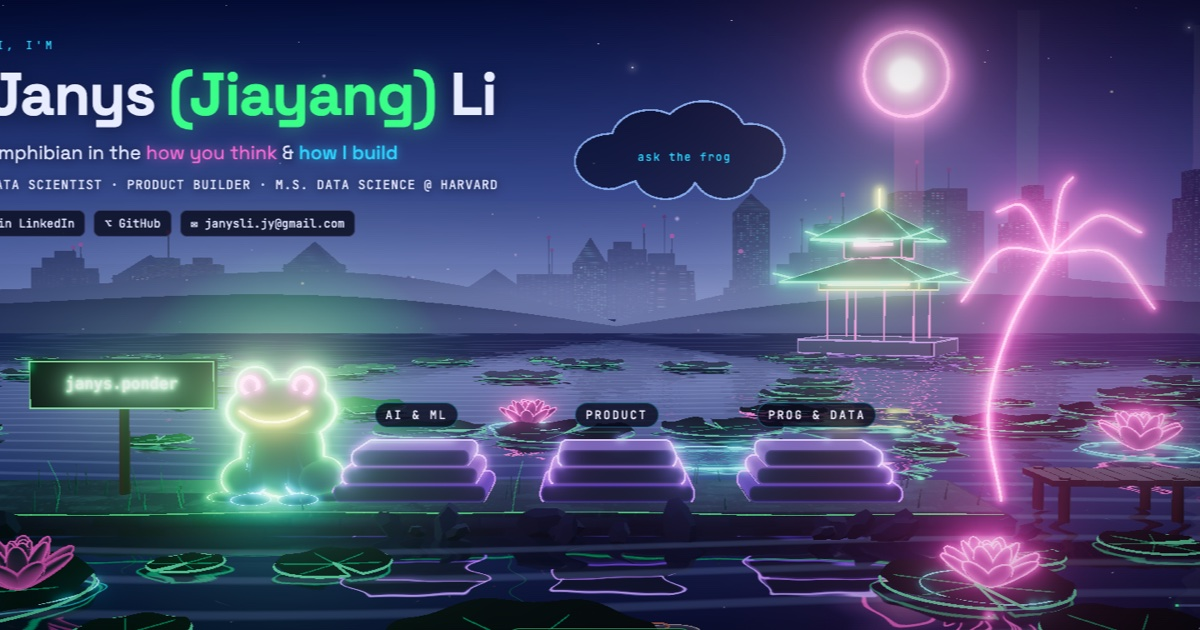
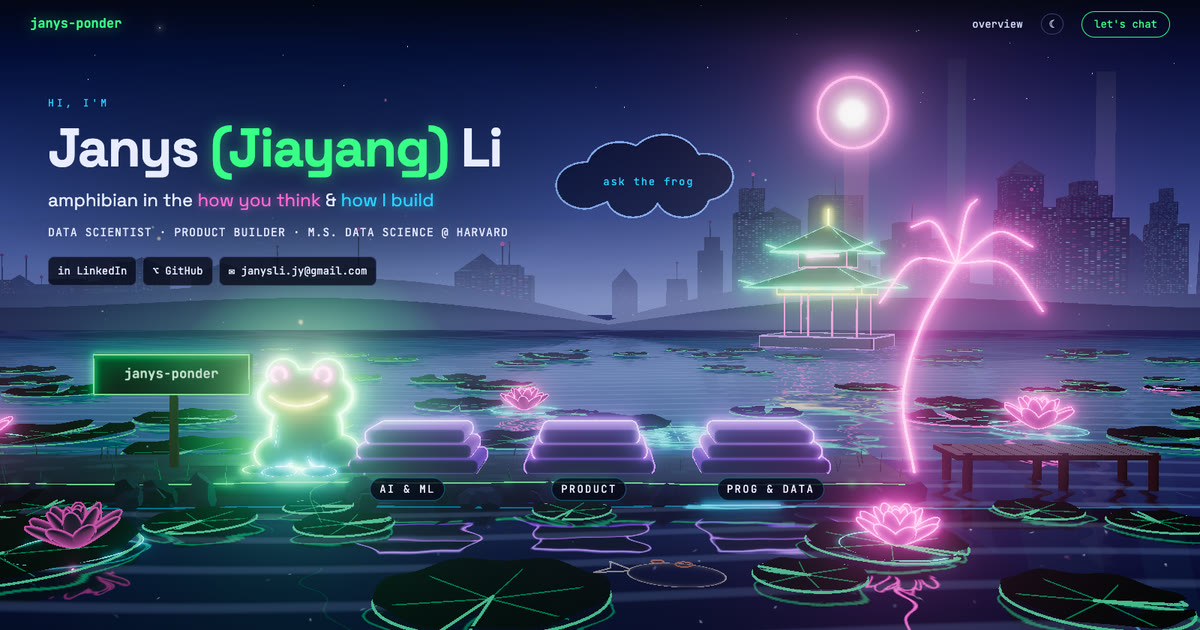
Rename janys.ponder -> janys-ponder everywhere
- Site: sign lettering, nav logo, page titles, share metadata, contact email subject
- Docs, README and concept sources
- Re-rendered LinkedIn banner and share image (og.jpg) with the new name

diff --git a/design/concept/world6.js b/design/concept/world6.js
@@ -1,4 +1,4 @@
-// janys.ponder — v2 "painterly cyber-pond" homepage.
+// janys-ponder — v2 "painterly cyber-pond" homepage.
 // Painterly, lit environment (textured pads, glowing lotus, reflective water, haze, city, pagoda)
 // + neon-outlined characters (the frog) and UI objects. Refs: design/references/*.webp
 import * as THREE from 'three';
@@ -369,7 +369,7 @@ const TERR_X = [-8, -2, 4];
   const post = new THREE.Mesh(new THREE.CylinderGeometry(0.14, 0.16, 3.4, 10), wood); post.position.set(-16.8, 1.7, -0.6); scene.add(post);
   const board = new THREE.Mesh(new RoundedBoxGeometry(5.6, 1.5, 0.3, 3, 0.1), new THREE.MeshStandardMaterial({ color: '#0e1a24', roughness: 0.6 })); board.position.set(-16.8, 3.3, -0.6); scene.add(board);
   const txt = new THREE.Mesh(new THREE.PlaneGeometry(4.4, 1.1), new THREE.MeshBasicMaterial({ transparent: true, opacity: 0.8, toneMapped: false, depthWrite: false, map: canvasTex(1024, 256, (x) => {
-    x.font = '700 108px "JetBrains Mono", monospace'; x.textAlign = 'center'; x.textBaseline = 'middle'; x.shadowColor = '#39ff88'; x.shadowBlur = 26; x.fillStyle = '#7dffb0'; x.fillText('janys.ponder', 512, 128); x.shadowBlur = 0; x.globalAlpha = 0.6; x.fillStyle = '#fff'; x.fillText('janys.ponder', 512, 128); }) }));
+    x.font = '700 108px "JetBrains Mono", monospace'; x.textAlign = 'center'; x.textBaseline = 'middle'; x.shadowColor = '#39ff88'; x.shadowBlur = 26; x.fillStyle = '#7dffb0'; x.fillText('janys-ponder', 512, 128); x.shadowBlur = 0; x.globalAlpha = 0.6; x.fillStyle = '#fff'; x.fillText('janys-ponder', 512, 128); }) }));
   txt.position.set(-16.8, 3.3, -0.43); scene.add(txt); [post, board, txt].forEach(o => o.layers.set(1));
   line(scene, [[-19.55, 2.6, -0.44], [-19.55, 4.0, -0.44], [-14.05, 4.0, -0.44], [-14.05, 2.6, -0.44], [-19.55, 2.6, -0.44]], C.frog, 1.6, 0.9, 0.7).layers.set(1);
   // lantern by the sign

diff --git a/design/concept/world7.js b/design/concept/world7.js
@@ -1,4 +1,4 @@
-// janys.ponder — v2 "painterly cyber-pond" homepage.
+// janys-ponder — v2 "painterly cyber-pond" homepage.
 // Painterly, lit environment (textured pads, glowing lotus, reflective water, haze, city, pagoda)
 // + neon-outlined characters (the frog) and UI objects. Refs: design/references/*.webp
 import * as THREE from 'three';
@@ -375,7 +375,7 @@ const TERR_X = [-8, -2, 4];
   const post = new THREE.Mesh(new THREE.CylinderGeometry(0.14, 0.16, 3.4, 10), wood); post.position.set(-16.8, 1.7, -0.6); scene.add(post);
   const board = new THREE.Mesh(new RoundedBoxGeometry(5.6, 1.5, 0.3, 3, 0.1), new THREE.MeshStandardMaterial({ color: '#0e1a24', roughness: 0.6 })); board.position.set(-16.8, 3.3, -0.6); scene.add(board);
   const txt = new THREE.Mesh(new THREE.PlaneGeometry(4.4, 1.1), new THREE.MeshBasicMaterial({ transparent: true, opacity: 0.8, toneMapped: false, depthWrite: false, map: canvasTex(1024, 256, (x) => {
-    x.font = '700 108px "JetBrains Mono", monospace'; x.textAlign = 'center'; x.textBaseline = 'middle'; x.shadowColor = '#39ff88'; x.shadowBlur = 26; x.fillStyle = '#7dffb0'; x.fillText('janys.ponder', 512, 128); x.shadowBlur = 0; x.globalAlpha = 0.6; x.fillStyle = '#fff'; x.fillText('janys.ponder', 512, 128); }) }));
+    x.font = '700 108px "JetBrains Mono", monospace'; x.textAlign = 'center'; x.textBaseline = 'middle'; x.shadowColor = '#39ff88'; x.shadowBlur = 26; x.fillStyle = '#7dffb0'; x.fillText('janys-ponder', 512, 128); x.shadowBlur = 0; x.globalAlpha = 0.6; x.fillStyle = '#fff'; x.fillText('janys-ponder', 512, 128); }) }));
   txt.position.set(-16.8, 3.3, -0.43); scene.add(txt); [post, board, txt].forEach(o => o.layers.set(1));
   line(scene, [[-19.55, 2.6, -0.44], [-19.55, 4.0, -0.44], [-14.05, 4.0, -0.44], [-14.05, 2.6, -0.44], [-19.55, 2.6, -0.44]], C.frog, 1.6, 0.9, 0.7).layers.set(1);
   // lantern by the sign

diff --git a/design/concept/world5.js b/design/concept/world5.js
@@ -1,4 +1,4 @@
-// janys.ponder — v2 "painterly cyber-pond" homepage.
+// janys-ponder — v2 "painterly cyber-pond" homepage.
 // Painterly, lit environment (textured pads, glowing lotus, reflective water, haze, city, pagoda)
 // + neon-outlined characters (the frog) and UI objects. Refs: design/references/*.webp
 import * as THREE from 'three';
@@ -367,7 +367,7 @@ const TERR_X = [-8, -2, 4];
   const post = new THREE.Mesh(new THREE.CylinderGeometry(0.14, 0.16, 3.4, 10), wood); post.position.set(-16.8, 1.7, -0.6); scene.add(post);
   const board = new THREE.Mesh(new RoundedBoxGeometry(5.6, 1.5, 0.3, 3, 0.1), new THREE.MeshStandardMaterial({ color: '#0e1a24', roughness: 0.6 })); board.position.set(-16.8, 3.3, -0.6); scene.add(board);
   const txt = new THREE.Mesh(new THREE.PlaneGeometry(4.4, 1.1), new THREE.MeshBasicMaterial({ transparent: true, opacity: 0.8, toneMapped: false, depthWrite: false, map: canvasTex(1024, 256, (x) => {
-    x.font = '700 108px "JetBrains Mono", monospace'; x.textAlign = 'center'; x.textBaseline = 'middle'; x.shadowColor = '#39ff88'; x.shadowBlur = 26; x.fillStyle = '#7dffb0'; x.fillText('janys.ponder', 512, 128); x.shadowBlur = 0; x.globalAlpha = 0.6; x.fillStyle = '#fff'; x.fillText('janys.ponder', 512, 128); }) }));
+    x.font = '700 108px "JetBrains Mono", monospace'; x.textAlign = 'center'; x.textBaseline = 'middle'; x.shadowColor = '#39ff88'; x.shadowBlur = 26; x.fillStyle = '#7dffb0'; x.fillText('janys-ponder', 512, 128); x.shadowBlur = 0; x.globalAlpha = 0.6; x.fillStyle = '#fff'; x.fillText('janys-ponder', 512, 128); }) }));
   txt.position.set(-16.8, 3.3, -0.43); scene.add(txt); [post, board, txt].forEach(o => o.layers.set(1));
   line(scene, [[-19.55, 2.6, -0.44], [-19.55, 4.0, -0.44], [-14.05, 4.0, -0.44], [-14.05, 2.6, -0.44], [-19.55, 2.6, -0.44]], C.frog, 1.6, 0.9, 0.7);
   // lantern by the sign

diff --git a/design/concept/world3.js b/design/concept/world3.js
@@ -1,4 +1,4 @@
-// janys.ponder — v2 "painterly cyber-pond" homepage.
+// janys-ponder — v2 "painterly cyber-pond" homepage.
 // Painterly, lit environment (textured pads, glowing lotus, reflective water, haze, city, pagoda)
 // + neon-outlined characters (the frog) and UI objects. Refs: design/references/*.webp
 import * as THREE from 'three';
@@ -349,7 +349,7 @@ const TERR_X = [-8, -2, 4];
   const post = new THREE.Mesh(new THREE.CylinderGeometry(0.14, 0.16, 3.4, 10), wood); post.position.set(-16.8, 1.7, -0.6); scene.add(post);
   const board = new THREE.Mesh(new RoundedBoxGeometry(5.6, 1.5, 0.3, 3, 0.1), new THREE.MeshStandardMaterial({ color: '#0e1a24', roughness: 0.6 })); board.position.set(-16.8, 3.3, -0.6); scene.add(board);
   const txt = new THREE.Mesh(new THREE.PlaneGeometry(4.4, 1.1), new THREE.MeshBasicMaterial({ transparent: true, opacity: 0.55, toneMapped: false, depthWrite: false, map: canvasTex(1024, 256, (x) => {
-    x.font = '700 108px "JetBrains Mono", monospace'; x.textAlign = 'center'; x.textBaseline = 'middle'; x.shadowColor = '#39ff88'; x.shadowBlur = 26; x.fillStyle = '#7dffb0'; x.fillText('janys.ponder', 512, 128); x.shadowBlur = 0; x.globalAlpha = 0.6; x.fillStyle = '#fff'; x.fillText('janys.ponder', 512, 128); }) }));
+    x.font = '700 108px "JetBrains Mono", monospace'; x.textAlign = 'center'; x.textBaseline = 'middle'; x.shadowColor = '#39ff88'; x.shadowBlur = 26; x.fillStyle = '#7dffb0'; x.fillText('janys-ponder', 512, 128); x.shadowBlur = 0; x.globalAlpha = 0.6; x.fillStyle = '#fff'; x.fillText('janys-ponder', 512, 128); }) }));
   txt.position.set(-16.8, 3.3, -0.43); scene.add(txt);
   line(scene, [[-19.55, 2.6, -0.44], [-19.55, 4.0, -0.44], [-14.05, 4.0, -0.44], [-14.05, 2.6, -0.44], [-19.55, 2.6, -0.44]], C.frog, 1.2, 0.5, 0.45);
   // lantern by the sign

diff --git a/design/concept/world4.js b/design/concept/world4.js
@@ -1,4 +1,4 @@
-// janys.ponder — v2 "painterly cyber-pond" homepage.
+// janys-ponder — v2 "painterly cyber-pond" homepage.
 // Painterly, lit environment (textured pads, glowing lotus, reflective water, haze, city, pagoda)
 // + neon-outlined characters (the frog) and UI objects. Refs: design/references/*.webp
 import * as THREE from 'three';
@@ -349,7 +349,7 @@ const TERR_X = [-8, -2, 4];
   const post = new THREE.Mesh(new THREE.CylinderGeometry(0.14, 0.16, 3.4, 10), wood); post.position.set(-16.8, 1.7, -0.6); scene.add(post);
   const board = new THREE.Mesh(new RoundedBoxGeometry(5.6, 1.5, 0.3, 3, 0.1), new THREE.MeshStandardMaterial({ color: '#0e1a24', roughness: 0.6 })); board.position.set(-16.8, 3.3, -0.6); scene.add(board);
   const txt = new THREE.Mesh(new THREE.PlaneGeometry(4.4, 1.1), new THREE.MeshBasicMaterial({ transparent: true, opacity: 0.8, toneMapped: false, depthWrite: false, map: canvasTex(1024, 256, (x) => {
-    x.font = '700 108px "JetBrains Mono", monospace'; x.textAlign = 'center'; x.textBaseline = 'middle'; x.shadowColor = '#39ff88'; x.shadowBlur = 26; x.fillStyle = '#7dffb0'; x.fillText('janys.ponder', 512, 128); x.shadowBlur = 0; x.globalAlpha = 0.6; x.fillStyle = '#fff'; x.fillText('janys.ponder', 512, 128); }) }));
+    x.font = '700 108px "JetBrains Mono", monospace'; x.textAlign = 'center'; x.textBaseline = 'middle'; x.shadowColor = '#39ff88'; x.shadowBlur = 26; x.fillStyle = '#7dffb0'; x.fillText('janys-ponder', 512, 128); x.shadowBlur = 0; x.globalAlpha = 0.6; x.fillStyle = '#fff'; x.fillText('janys-ponder', 512, 128); }) }));
   txt.position.set(-16.8, 3.3, -0.43); scene.add(txt);
   line(scene, [[-19.55, 2.6, -0.44], [-19.55, 4.0, -0.44], [-14.05, 4.0, -0.44], [-14.05, 2.6, -0.44], [-19.55, 2.6, -0.44]], C.frog, 1.6, 0.9, 0.7);
   // lantern by the sign

diff --git a/design/concept/world2.js b/design/concept/world2.js
@@ -1,4 +1,4 @@
-// janys.ponder — v2 "painterly cyber-pond" homepage.
+// janys-ponder — v2 "painterly cyber-pond" homepage.
 // Painterly, lit environment (textured pads, glowing lotus, reflective water, haze, city, pagoda)
 // + neon-outlined characters (the frog) and UI objects. Refs: design/references/*.webp
 import * as THREE from 'three';
@@ -349,7 +349,7 @@ const TERR_X = [-8, -2, 4];
   const post = new THREE.Mesh(new THREE.CylinderGeometry(0.14, 0.16, 3.4, 10), wood); post.position.set(-16.8, 1.7, -0.6); scene.add(post);
   const board = new THREE.Mesh(new RoundedBoxGeometry(5.6, 1.5, 0.3, 3, 0.1), new THREE.MeshStandardMaterial({ color: '#0e1a24', roughness: 0.6 })); board.position.set(-16.8, 3.3, -0.6); scene.add(board);
   const txt = new THREE.Mesh(new THREE.PlaneGeometry(4.4, 1.1), new THREE.MeshBasicMaterial({ transparent: true, toneMapped: false, depthWrite: false, map: canvasTex(1024, 256, (x) => {
-    x.font = '700 108px "JetBrains Mono", monospace'; x.textAlign = 'center'; x.textBaseline = 'middle'; x.shadowColor = '#39ff88'; x.shadowBlur = 26; x.fillStyle = '#7dffb0'; x.fillText('janys.ponder', 512, 128); x.shadowBlur = 0; x.globalAlpha = 0.6; x.fillStyle = '#fff'; x.fillText('janys.ponder', 512, 128); }) }));
+    x.font = '700 108px "JetBrains Mono", monospace'; x.textAlign = 'center'; x.textBaseline = 'middle'; x.shadowColor = '#39ff88'; x.shadowBlur = 26; x.fillStyle = '#7dffb0'; x.fillText('janys-ponder', 512, 128); x.shadowBlur = 0; x.globalAlpha = 0.6; x.fillStyle = '#fff'; x.fillText('janys-ponder', 512, 128); }) }));
   txt.position.set(-16.8, 3.3, -0.43); scene.add(txt);
   line(scene, [[-19.55, 2.6, -0.44], [-19.55, 4.0, -0.44], [-14.05, 4.0, -0.44], [-14.05, 2.6, -0.44], [-19.55, 2.6, -0.44]], C.frog, 2, 1.6, 0.8);
   // lantern by the sign

diff --git a/src/scene/pond.ts b/src/scene/pond.ts
@@ -1,4 +1,4 @@
-// The janys.ponder homepage world, ported from design/concept/world7.js (the approved v7 look).
+// The janys-ponder homepage world, ported from design/concept/world7.js (the approved v7 look).
 // Draw-call budget: repeated objects are instanced or merged (pads, grass, rocks, reeds, city, pier, lotus petals).
 import * as THREE from "three";
 import { Reflector } from "three/addons/objects/Reflector.js";
@@ -351,7 +351,7 @@ export function buildPond(tier: Tier, size: { w: number; h: number }): Pond {
     const board = new THREE.Mesh(new RoundedBoxGeometry(5.6, 1.5, 0.3, 3, 0.1), new THREE.MeshStandardMaterial({ color: "#0e1a24", roughness: 0.6 })); board.position.set(-16.8, 3.3, -0.6);
     const txt = new THREE.Mesh(new THREE.PlaneGeometry(4.4, 1.1), new THREE.MeshBasicMaterial({ transparent: true, opacity: 1, depthWrite: false, map: canvasTex(1024, 256, (x) => {
       x.font = '700 108px "JetBrains Mono", ui-monospace, monospace'; x.textAlign = "center"; x.textBaseline = "middle";
-      x.fillStyle = "#b8ffd4"; x.fillText("janys.ponder", 512, 128); // crisp, no halo
+      x.fillStyle = "#b8ffd4"; x.fillText("janys-ponder", 512, 128); // crisp, no halo
     }) }));
     txt.position.set(-16.8, 3.3, -0.43);
     const frame = line(scene, [[-19.55, 2.6, -0.44], [-19.55, 4, -0.44], [-14.05, 4, -0.44], [-14.05, 2.6, -0.44], [-19.55, 2.6, -0.44]], C.frog, { width: 1.6, k: 0.9, opacity: 0.7 });

diff --git a/design/concept/index.html b/design/concept/index.html
@@ -121,7 +121,7 @@ const p = new URLSearchParams(location.search), s = p.get('s') || 'hero';
 const ui = document.getElementById('ui');
 const add = (html) => ui.insertAdjacentHTML('beforeend', html);
 const at = (x, y, z, html, dx = 0, dy = 0) => { let [sx, sy] = window.__project(x, y, z); const zf = window.__uiz || 1; sx /= zf; sy /= zf; add(`<div class="anchor" style="left:${sx + dx}px;top:${sy + dy}px">${html}</div>`); };
-const nav = (active) => add(`<nav><div class="logo mono glow-g">janys.ponder</div><div class="links mono"><span>overview</span><span class="glow-c">☁ ask the frog</span><span class="pill">let's chat</span></div></nav>`);
+const nav = (active) => add(`<nav><div class="logo mono glow-g">janys-ponder</div><div class="links mono"><span>overview</span><span class="glow-c">☁ ask the frog</span><span class="pill">let's chat</span></div></nav>`);
 const mini = (t) => add(`<svg class="mini" viewBox="0 0 100 100"><path d="M14 18 H70 Q86 18 86 34 V66 Q86 82 70 82 H14" fill="none" stroke="#3a4170" stroke-width="3"/>
   <path d="M14 18 H70 Q86 18 86 34 V66 Q86 82 70 82 H14" fill="none" stroke="#39ff88" stroke-width="3" pathLength="100" stroke-dasharray="${t} 100" style="filter:drop-shadow(0 0 4px #39ff88)"/>
   <text x="50" y="54" text-anchor="middle" fill="#8c93b8" font-size="10" font-family="JetBrains Mono">${Math.round(t)}%</text></svg>`);

diff --git a/design/concept/world.js b/design/concept/world.js
@@ -1,4 +1,4 @@
-// janys.ponder concept renderer — neon-outline cyberpunk pond world (side-view cross-section, Ɔ path)
+// janys-ponder concept renderer — neon-outline cyberpunk pond world (side-view cross-section, Ɔ path)
 import * as THREE from 'three';
 import { EffectComposer } from 'three/addons/postprocessing/EffectComposer.js';
 import { RenderPass } from 'three/addons/postprocessing/RenderPass.js';
@@ -332,7 +332,7 @@ function buildWorld() {
   // signpost
   blob(scene, new THREE.CylinderGeometry(0.14, 0.14, 3.2, 12), C.sand, { pos: [-18, 1.6, -0.6], t: 0.04 });
   blob(scene, new RoundedBoxGeometry(5.4, 1.5, 0.3, 3, 0.12), C.frog, { pos: [-18, 3.3, -0.6], t: 0.05, fill: 0.3 });
-  neonText('janys.ponder', '#7dffb0', { size: 1.1, pos: [-18, 3.3, -0.4] });
+  neonText('janys-ponder', '#7dffb0', { size: 1.1, pos: [-18, 3.3, -0.4] });
 
   // thought cloud
   const bumps = [[-2.4, -0.2, 1.1], [-1.1, 0.6, 1.25], [0.6, 0.85, 1.35], [2.1, 0.2, 1.1], [1.3, -0.7, 1.0], [-0.6, -0.7, 1.0]];

diff --git a/design/concept/stair.html b/design/concept/stair.html
@@ -49,7 +49,7 @@ const s = new URLSearchParams(location.search).get('s') || 'lobby';
 const ui = document.getElementById('ui'), add = h => ui.insertAdjacentHTML('beforeend', h);
 const at = (x, y, z, h) => { const [a, b] = window.__project(x, y, z); add(`<div class="anchor" style="left:${a}px;top:${b}px">${h}</div>`); };
 const floors = (on) => add(`<div class="floors">${['L', '2', '3', '4', 'R'].map((f, i) => `<i class="${i === on ? 'on' : ''}">${f}</i>`).join('')}</div>`);
-const nav = () => add(`<nav><div class="logo mono">janys.ponder</div><div class="links"><span>overview</span><span>☁ ask the frog</span><span class="pill">let's chat</span></div></nav>`);
+const nav = () => add(`<nav><div class="logo mono">janys-ponder</div><div class="links"><span>overview</span><span>☁ ask the frog</span><span class="pill">let's chat</span></div></nav>`);
 window.addEventListener('world-ready', async () => {
   await document.fonts.ready;
   if (s === 'lobby') { nav(); floors(0);

diff --git a/src/app/layout.tsx b/src/app/layout.tsx
@@ -13,7 +13,7 @@ export const metadata: Metadata = {
   metadataBase: new URL("https://janys0v0.github.io"),
   title: `${profile.fullName} · ${profile.handle}`,
   description,
-  openGraph: { title: `${profile.fullName} · ${profile.handle}`, description, url: "/", siteName: profile.handle, images: [{ url: "/og.jpg", width: 1200, height: 630, alt: "A neon frog by a moonlit pond: janys.ponder" }], type: "website" },
+  openGraph: { title: `${profile.fullName} · ${profile.handle}`, description, url: "/", siteName: profile.handle, images: [{ url: "/og.jpg", width: 1200, height: 630, alt: "A neon frog by a moonlit pond: janys-ponder" }], type: "website" },
   twitter: { card: "summary_large_image", title: profile.fullName, description, images: ["/og.jpg"] },
   icons: { icon: "/frog.png" },
 };

diff --git a/src/components/LetsChat.tsx b/src/components/LetsChat.tsx
@@ -28,7 +28,7 @@ export function LetsChat({ standalone = false }: { standalone?: boolean }) {
     f.set("reason", reason);
     if (!FORMSPREE_ID) {
       const body = `${message}\n\n— ${name} (${email})${f.get("org") ? `, ${f.get("org")}` : ""}`;
-      window.location.href = `mailto:${profile.email}?subject=${encodeURIComponent(`[janys.ponder] ${reason}`)}&body=${encodeURIComponent(body)}`;
+      window.location.href = `mailto:${profile.email}?subject=${encodeURIComponent(`[janys-ponder] ${reason}`)}&body=${encodeURIComponent(body)}`;
       setStatus("sent"); window.dispatchEvent(new Event("note-sent"));
       return;
     }
